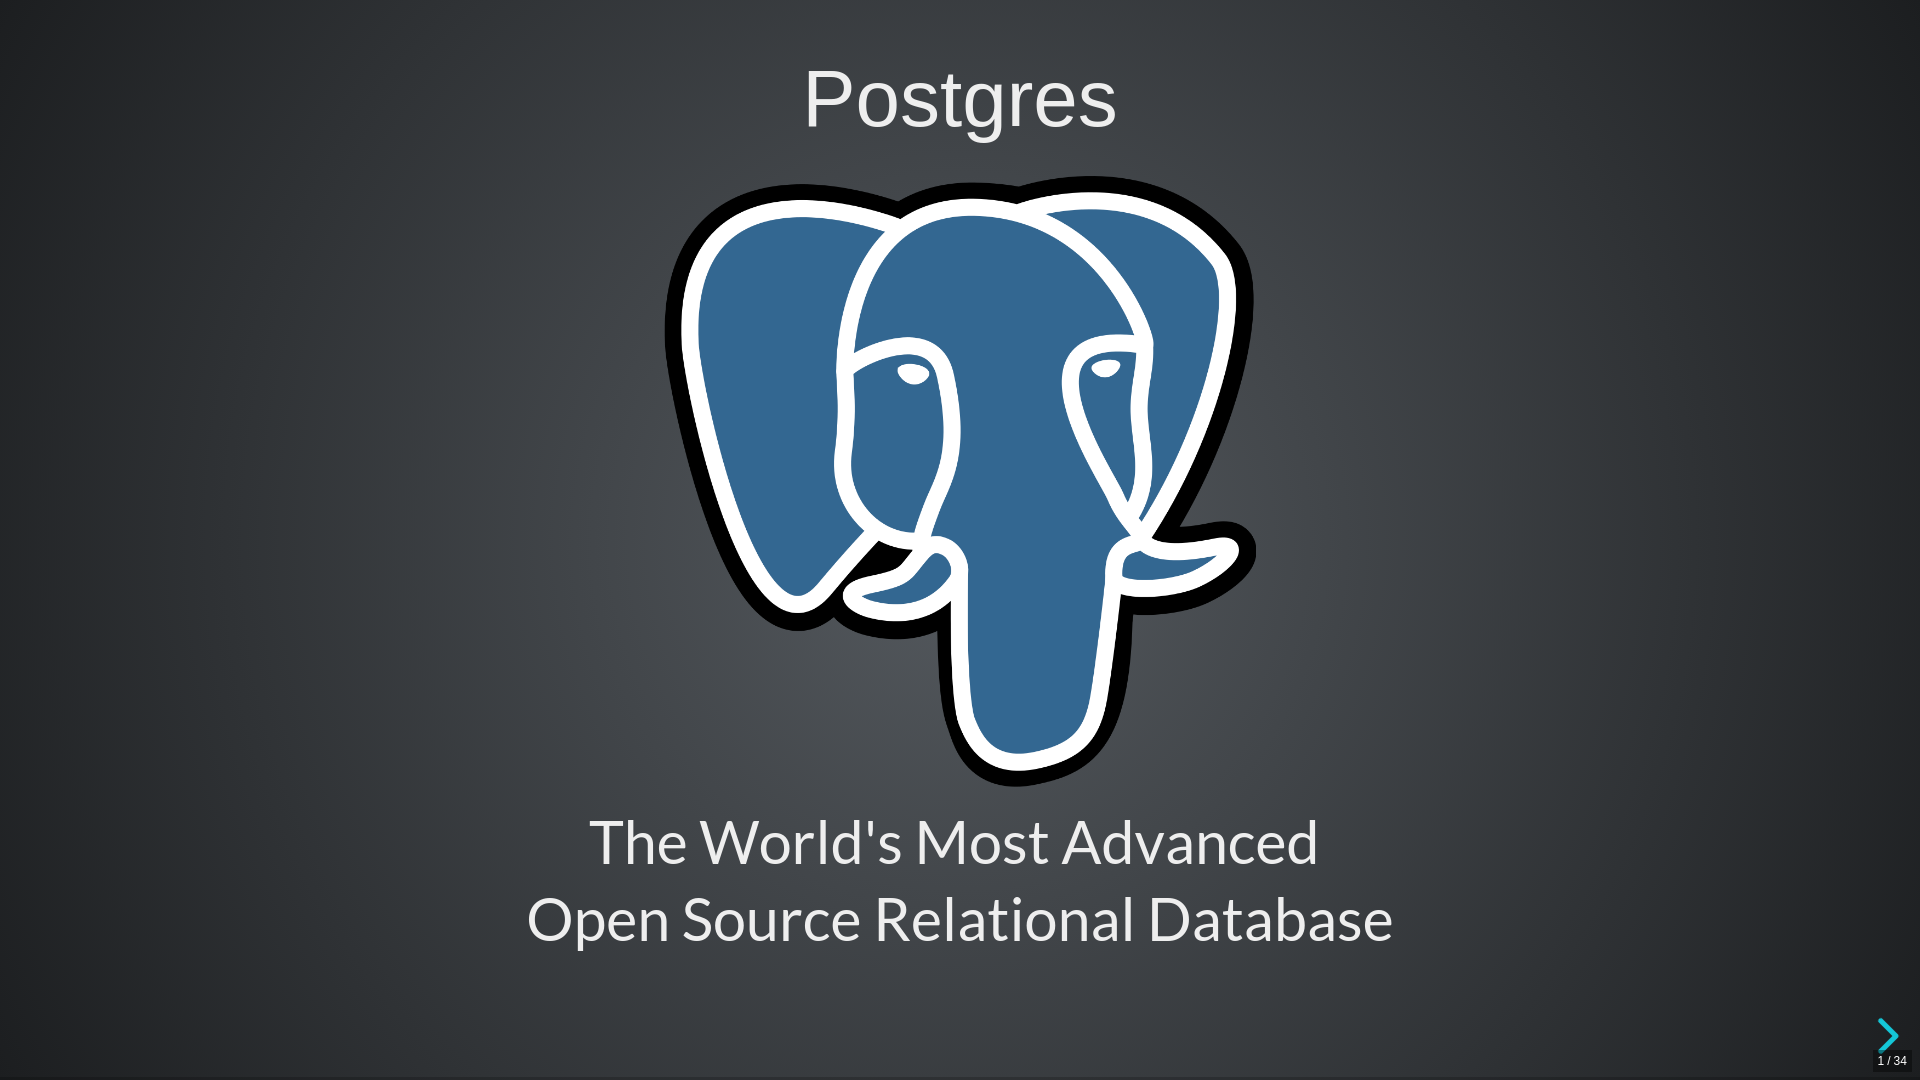
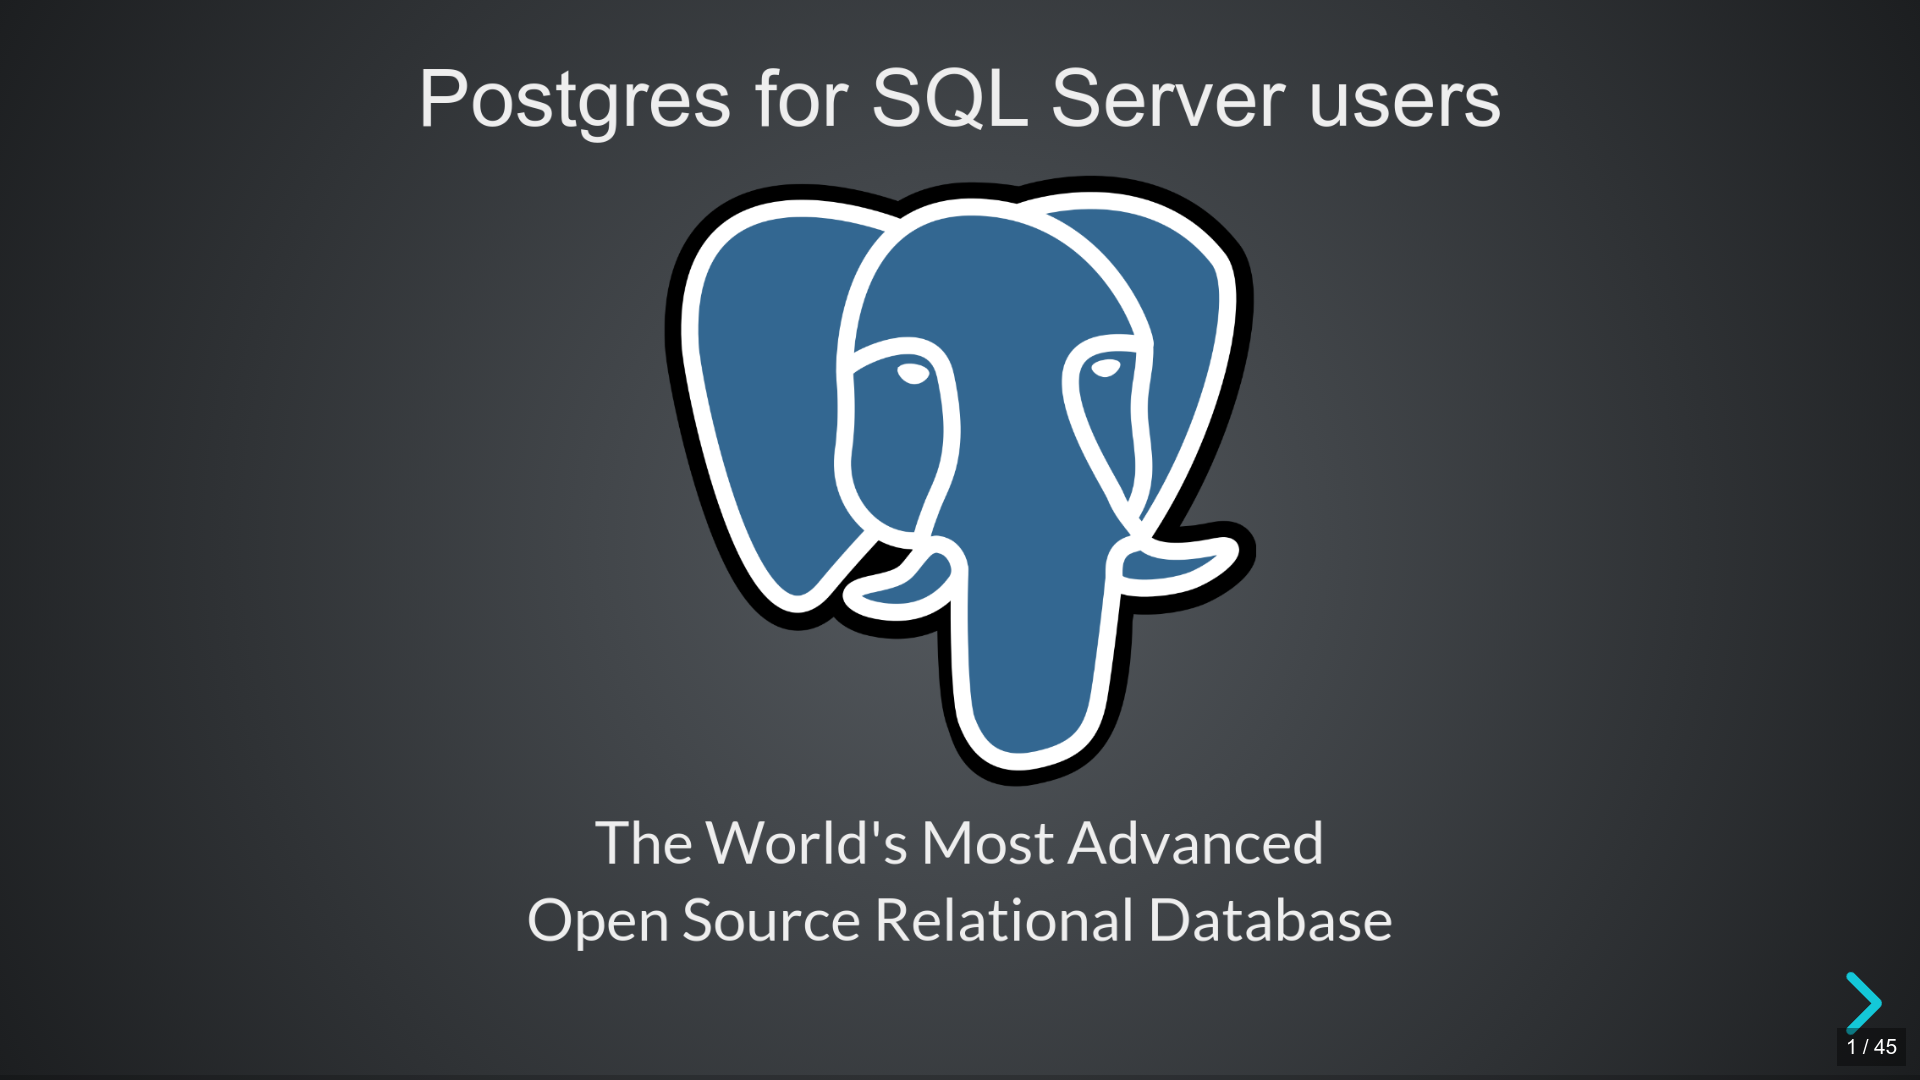
Updated coverpage image

Changed region(s): [[0.2188, 0.0611, 0.7812, 0.1528], [0.3125, 0.7639, 0.6875, 0.825], [0.9688, 0.9167, 1.0, 0.9778]]

diff --git a/slides/index.html b/slides/index.html
@@ -5,8 +5,8 @@
 		<meta name="viewport" content="width=device-width, initial-scale=1.0, maximum-scale=1.0, user-scalable=no">
 		<meta property="og:title" content="Postgres for SQL Server users - Postgres.conf 2020 by Igal Sapir">
 		<meta property="og:description" content="In this talk I crashed the party that is mostly focused on Microsoft SQL Server and introduced PostgreSQL as a free and open source alternative">
-		<meta property="og:image" content="https://people.apache.org/~isapir/talks/sqlsatla2019/res/images/coverpage.png">
-		<meta property="og:url" content="https://people.apache.org/~isapir/talks/sqlsatla2019/">
+		<meta property="og:image" content="https://people.apache.org/~isapir/talks/pg4mssql/res/images/coverpage.png">
+		<meta property="og:url" content="https://people.apache.org/~isapir/talks/pg4mssql/">
 
 		<title>Postgres for SQL Server users - Postgres.conf 2020 by Igal Sapir</title>
 
@@ -152,7 +152,7 @@
 			<div class="slides">
 
 				<section>
-					<h3>Postgres</h3>
+					<h3>Postgres for SQL Server users</h3>
 
 					<img src="res/images/postgres-logo.svg.png" style="width: 400px;">
 
